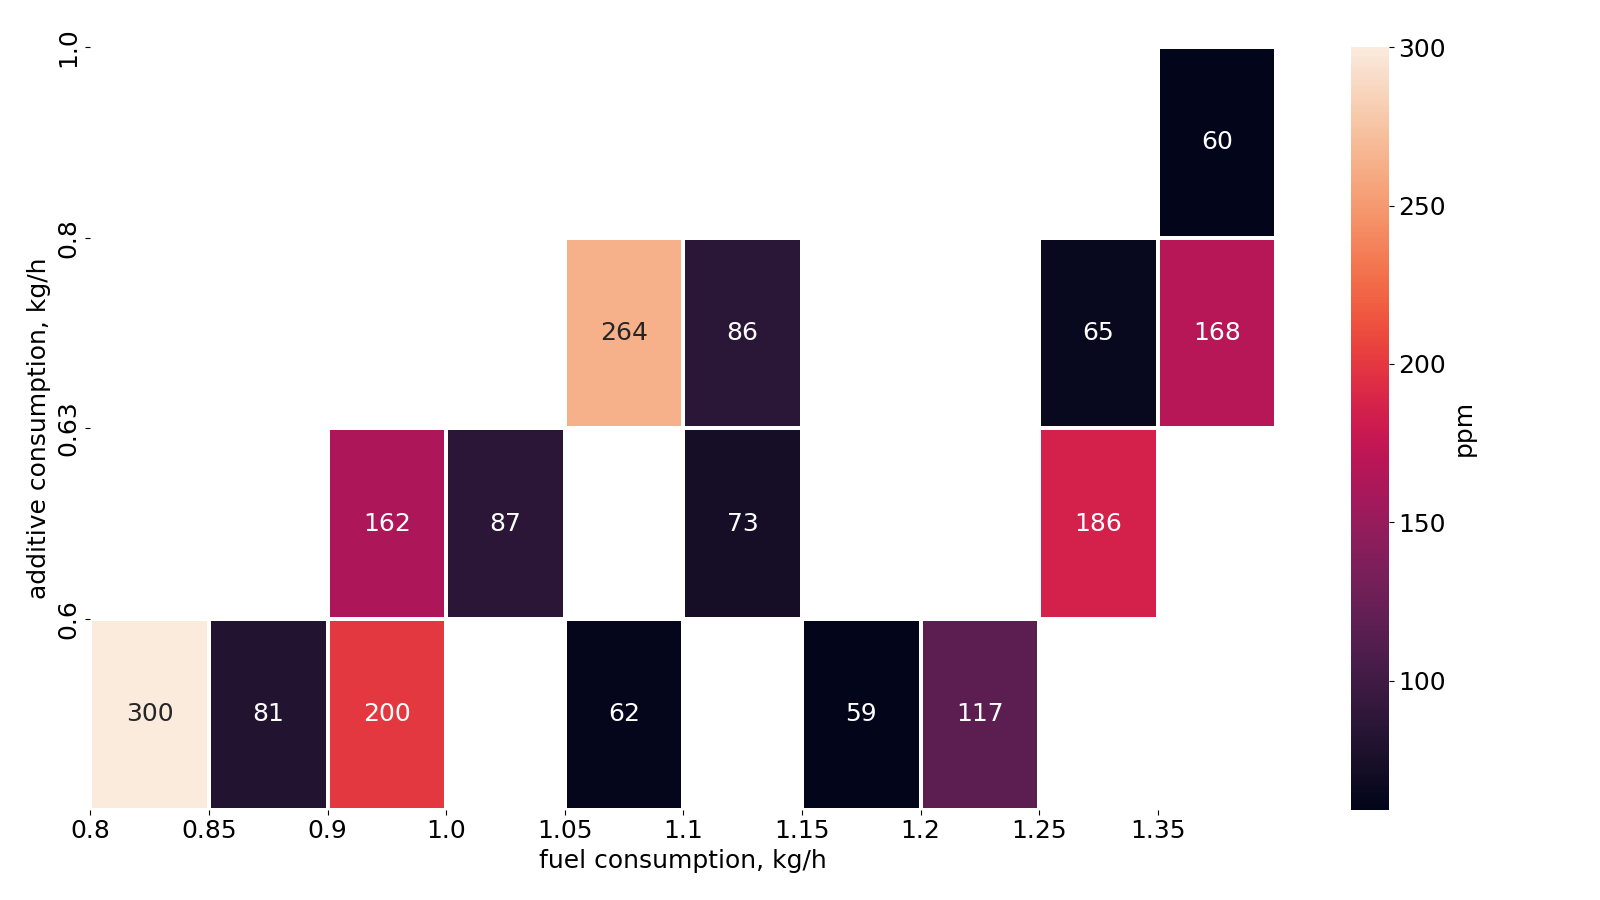
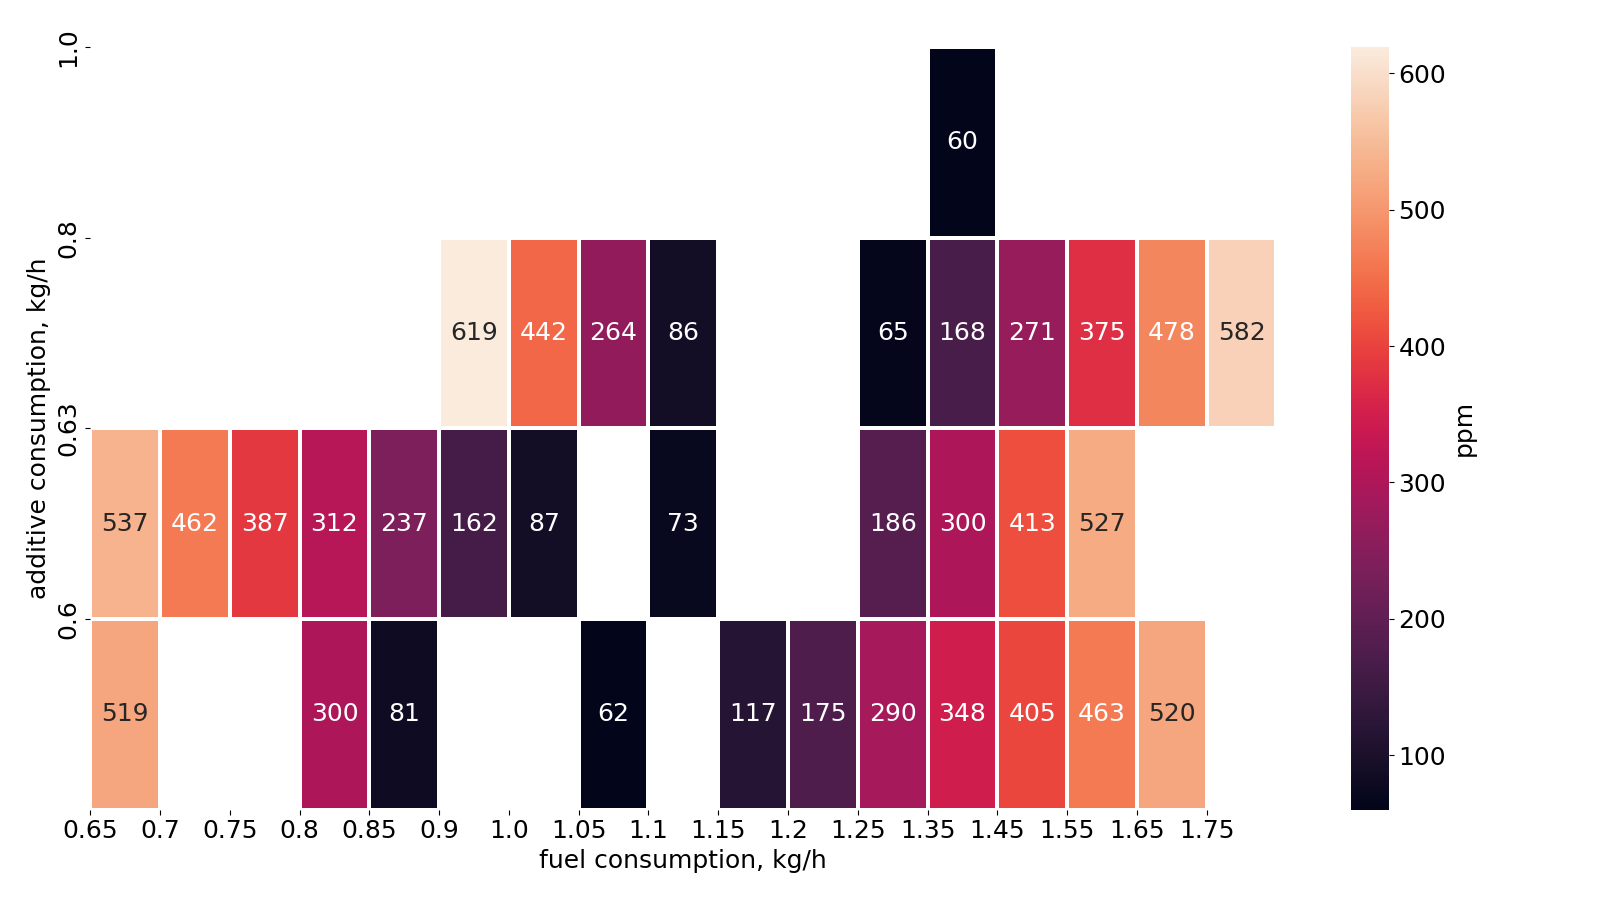
Добавлены результаты по маслу 40 и 60с c интерполяцией значений

diff --git a/main.py b/main.py
@@ -22,10 +22,10 @@ if __name__ == '__main__':
     #    'steam')
 
     #db.get_experiment_data('waste_oil_40_2024', 'steam', 'CO')
-    m.save_all_source_map_to_excel()
-    #m.save_all_source_map()
+    #m.save_all_source_map_to_excel()
+    m.save_all_source_map()
 
-    #m.save_all_rbf_map()
+    m.save_all_rbf_map()
     #m.save_all_rbf_map_to_excel()
 
     #m.save_all_co_min_map()
